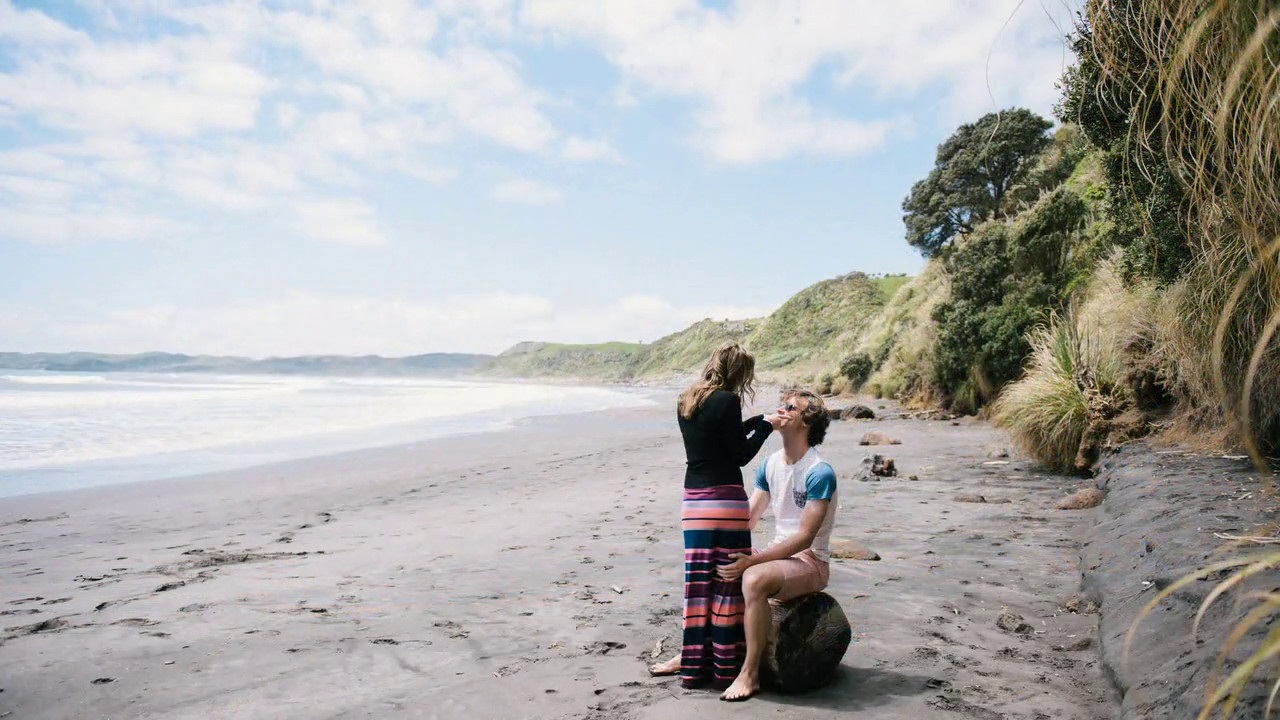
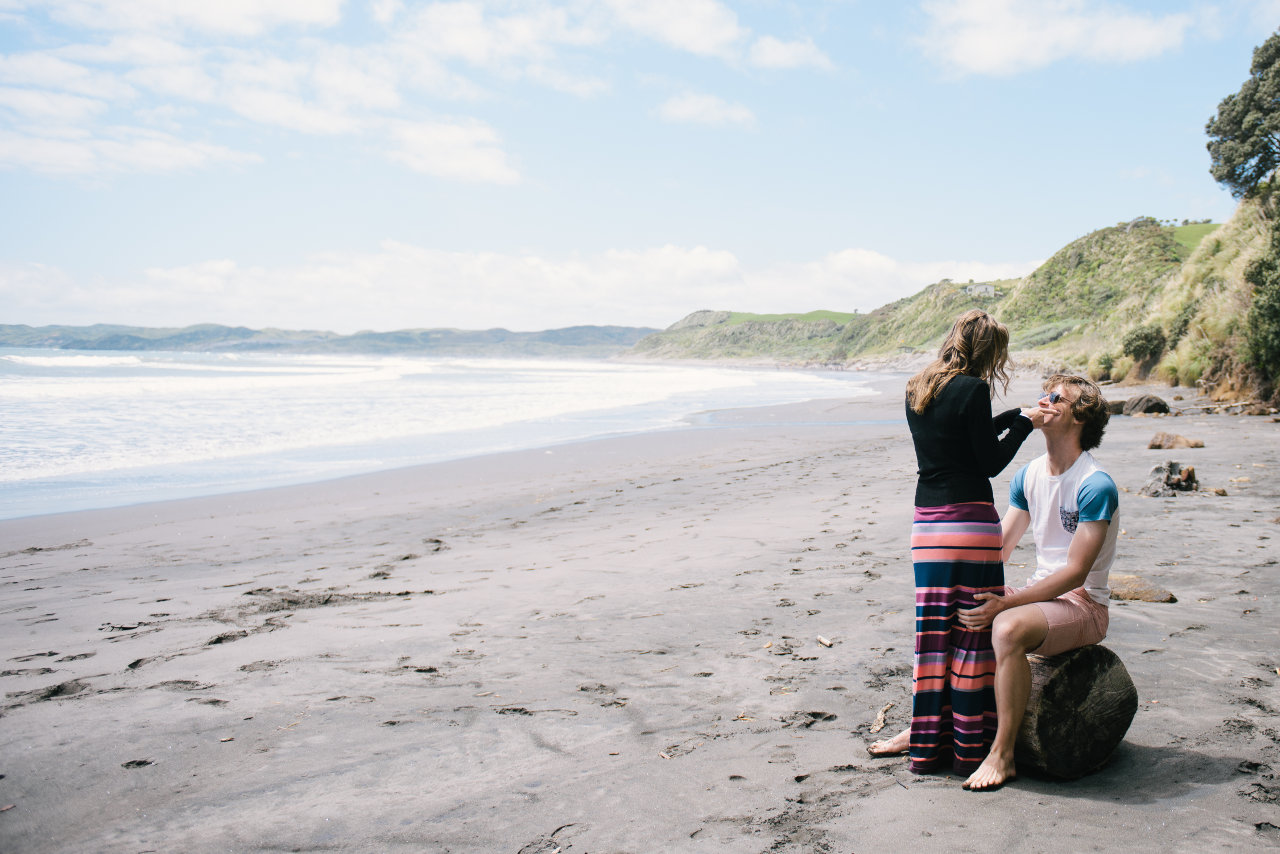
Better images and slideshow them

diff --git a/style.css b/style.css
@@ -7,27 +7,41 @@ html, body {
 	background: black;
 }
 
-/* TODO: Need to scale to height or width so that it fills - mobile especially */
 .background-image {
+	position: absolute;
+	left: 0;
+	top: 0;
+	
 	width:100%;
 	height: 100%;
 	
 	background-size: cover;
+	background-position: bottom right;
+	animation: imageAnimation 18s linear infinite 0s;
 }
 
 .bg-1 {
 	background-image: url('1.jpg');
-	background-position: bottom right;
 }
 
 .bg-2 {
 	background-image: url('2.jpg');
-	background-position: 50% 100%;
+	animation-delay: 6s;
+	opacity: 0;
 }
 
 .bg-3 {
 	background-image: url('3.jpg');
-	background-position: bottom right;
+	animation-delay: 12s;
+	opacity: 0;
+}
+
+@keyframes imageAnimation { 
+    0% { opacity: 0; animation-timing-function: ease-in; }
+    8% { opacity: 1; animation-timing-function: ease-out; }
+    33% { opacity: 1 }
+    40% { opacity: 0 }
+    100% { opacity: 0 }
 }
 
 .heading-overlay {
@@ -103,6 +117,15 @@ a:hover{
 	}
 	p {
 		margin: 0.5em 0;
+	}
+	.bg-1 {
+		background-image: url('1-mob.jpg');
+	}
+	.bg-2 {
+		background-image: url('2-mob.jpg');
+	}
+	.bg-3 {
+		background-image: url('3-mob.jpg');
 	}
 }
 

diff --git a/index.html b/index.html
@@ -5,7 +5,9 @@
 </head>
 <body>
 	<!--<video src="video.mp4" class="background-image" ></video>-->
-	<div class="background-image bg-1"/>
+	<div class="background-image bg-1"></div>
+	<div class="background-image bg-2"></div>
+	<div class="background-image bg-3"></div>
 	<div class="heading-overlay">
 		<p class="cursive">Dave &amp; Emma</p>
 		<p class="announcement">are getting married!</p>
